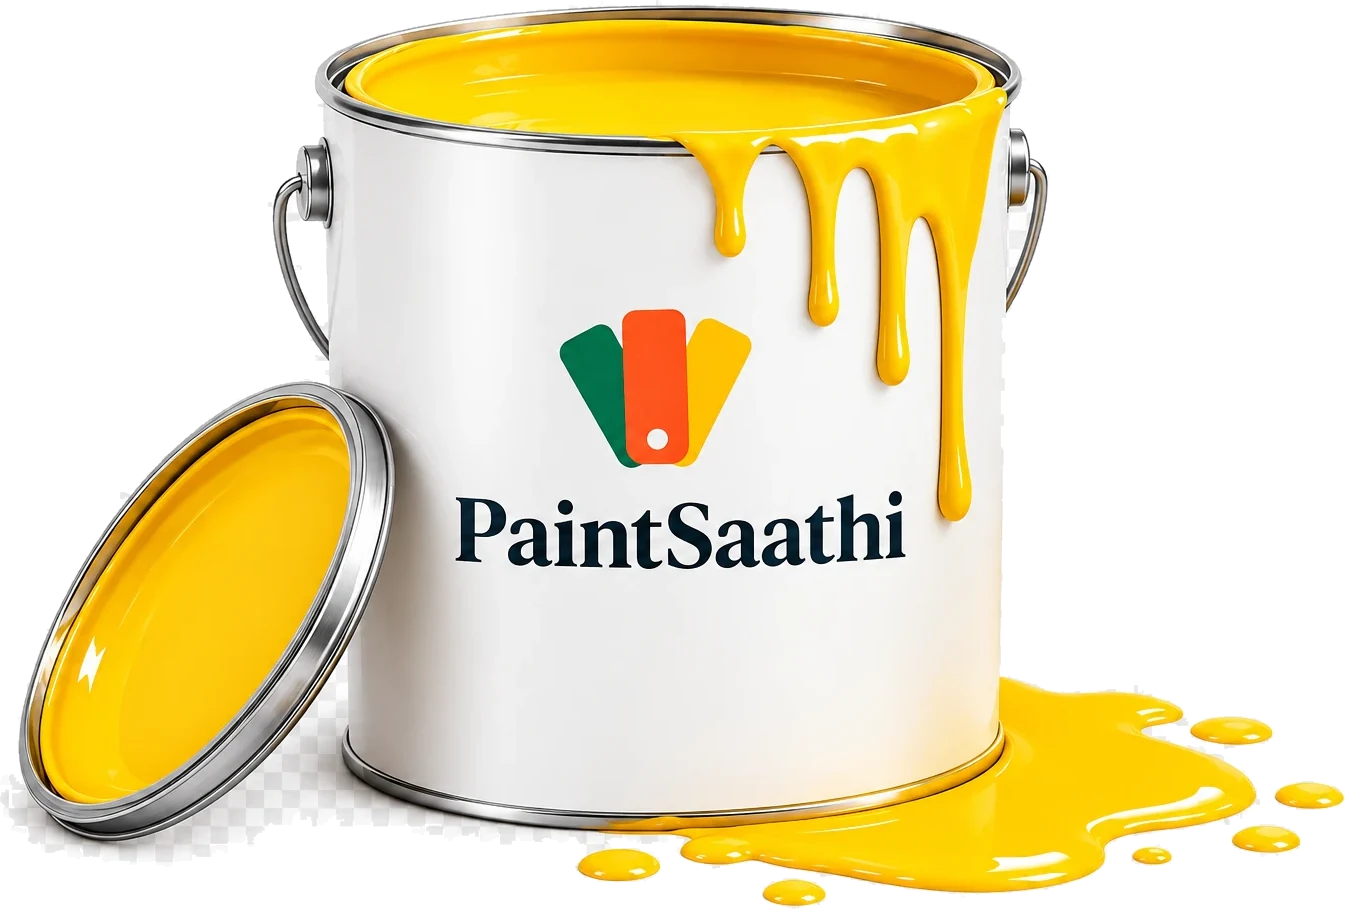
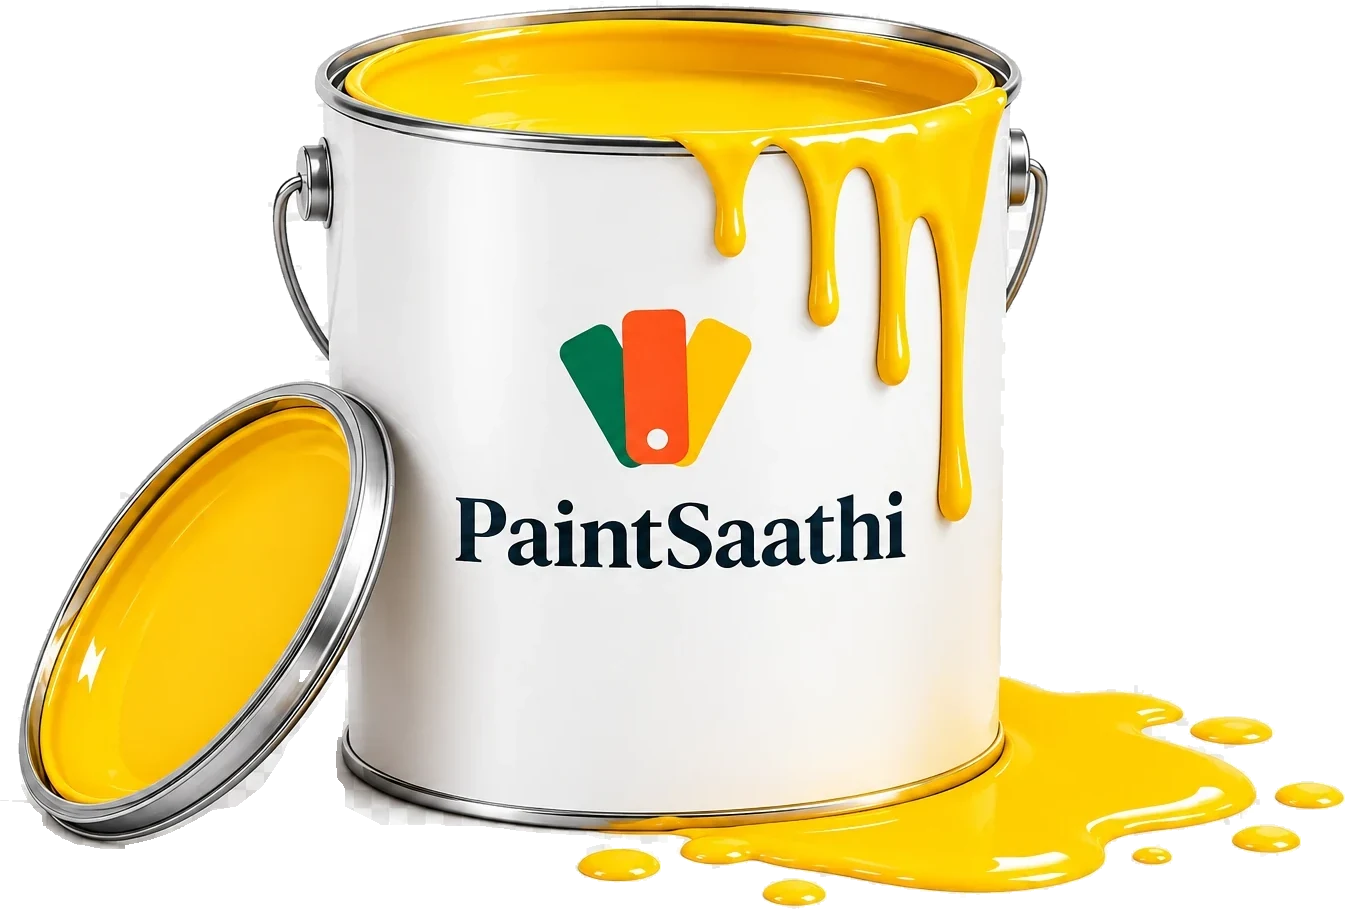
Paint can without its leftover background; space under the waitlist form
- paint-can.webp: the checkerboard that was left in the soft shadow between
  the lid and the can, under both and at the left edge is cleared (lid, rim,
  handle and paint untouched; same size)
- Coming-soon city pages: the waitlist form is the last section, so it now
  keeps its own space above the footer (128px on desktop)

Changed region(s): [[0.0, 0.7701, 0.281, 0.9549], [0.3435, 0.8933, 0.3747, 0.9241]]

diff --git a/src/app/(site)/services/house-painting/[city]/page.tsx b/src/app/(site)/services/house-painting/[city]/page.tsx
@@ -249,9 +249,11 @@ function ComingSoon({ city }: { city: City }) {
         </div>
       </div>
     </section>
+    {/* the last section on this page (no closing banner), so it keeps its own space above the footer */}
     <BookingSection
       id="waitlist"
       type="contact"
+      className="container-page mt-20 mb-24 md:mb-32"
       defaultMessage={`Please call me when you start painting in ${city.name}.`}
       heading={<>Join the <em>{city.name}</em> waitlist</>}
       text={
